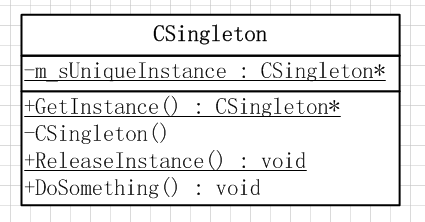
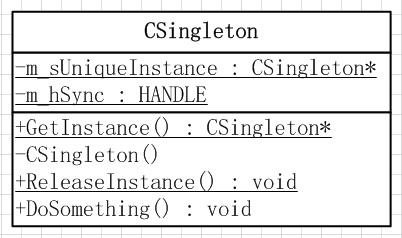
添加单件模式学习文章

diff --git a/_posts/2014-05-31-HFDP-Note4.md b/_posts/2014-05-31-HFDP-Note4.md
@@ -15,3 +15,11 @@ categories: DesignPattern
 ###书中示例的类图：
 Visio原图见<a href="https://github.com/mzlogin/DesignPatternDemos/blob/master/DesignPatternDemos.vsd" target="_blank">这里</a>:
 ![Singleton Pattern UML Class Diagram](/images/posts/designpattern/SingletonPattern.png)  
+
+###小结
+
+1. 单件模式的精华是通过设计来限制一个类产生多个实例的可能性，从而满足有且仅能有一个实例的类的设计需求。  
+2. 为了实现上述目标，采用了私有化构造函数和提供一个公开的获取唯一实例的接口。  
+3. 为了实现多线程安全，在创建唯一实例的时候会采用多线程同步设施如临界区、事件等来保证，声明实例指针使用volatile关键字。  
+4. 在Java等语言中有“同步方法”和“急切”创建实例等方式来解决多线程的问题，C++中貌似都不太适用，使用volatile加双重检查加锁相对靠谱。  
+5. 记得在合适的地方释放单例以及时和正确地回收资源。
